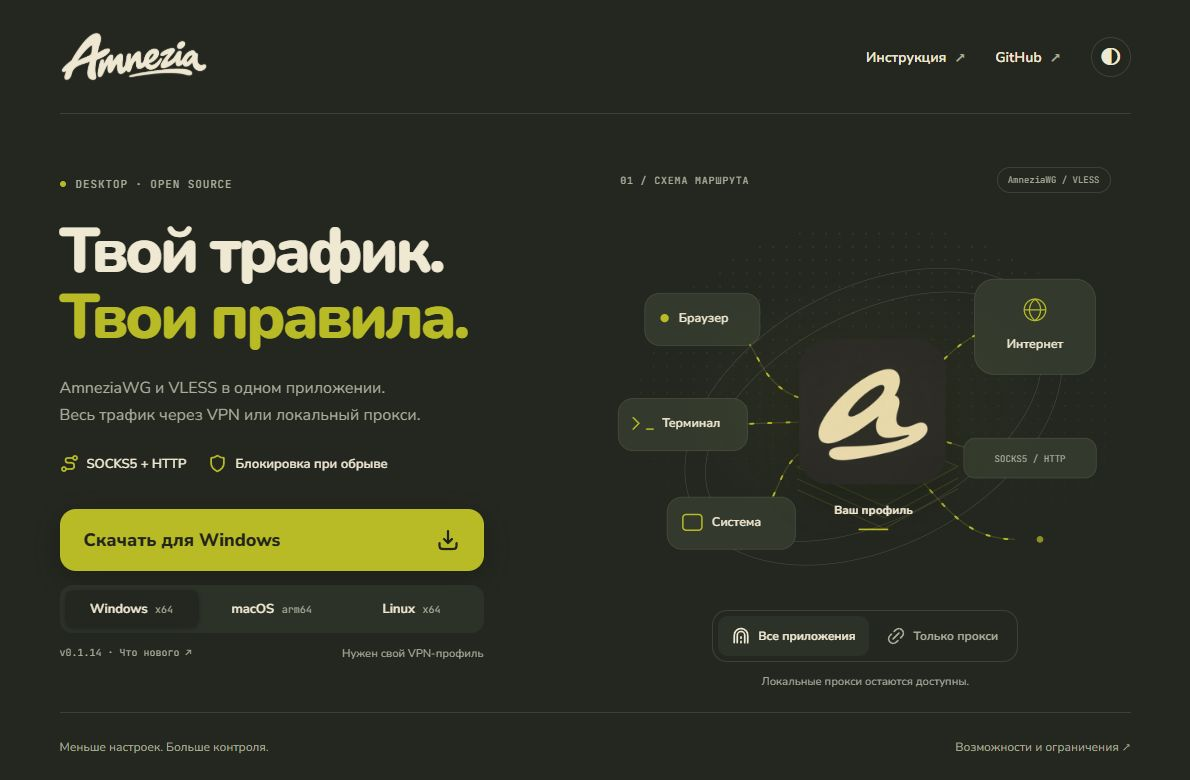
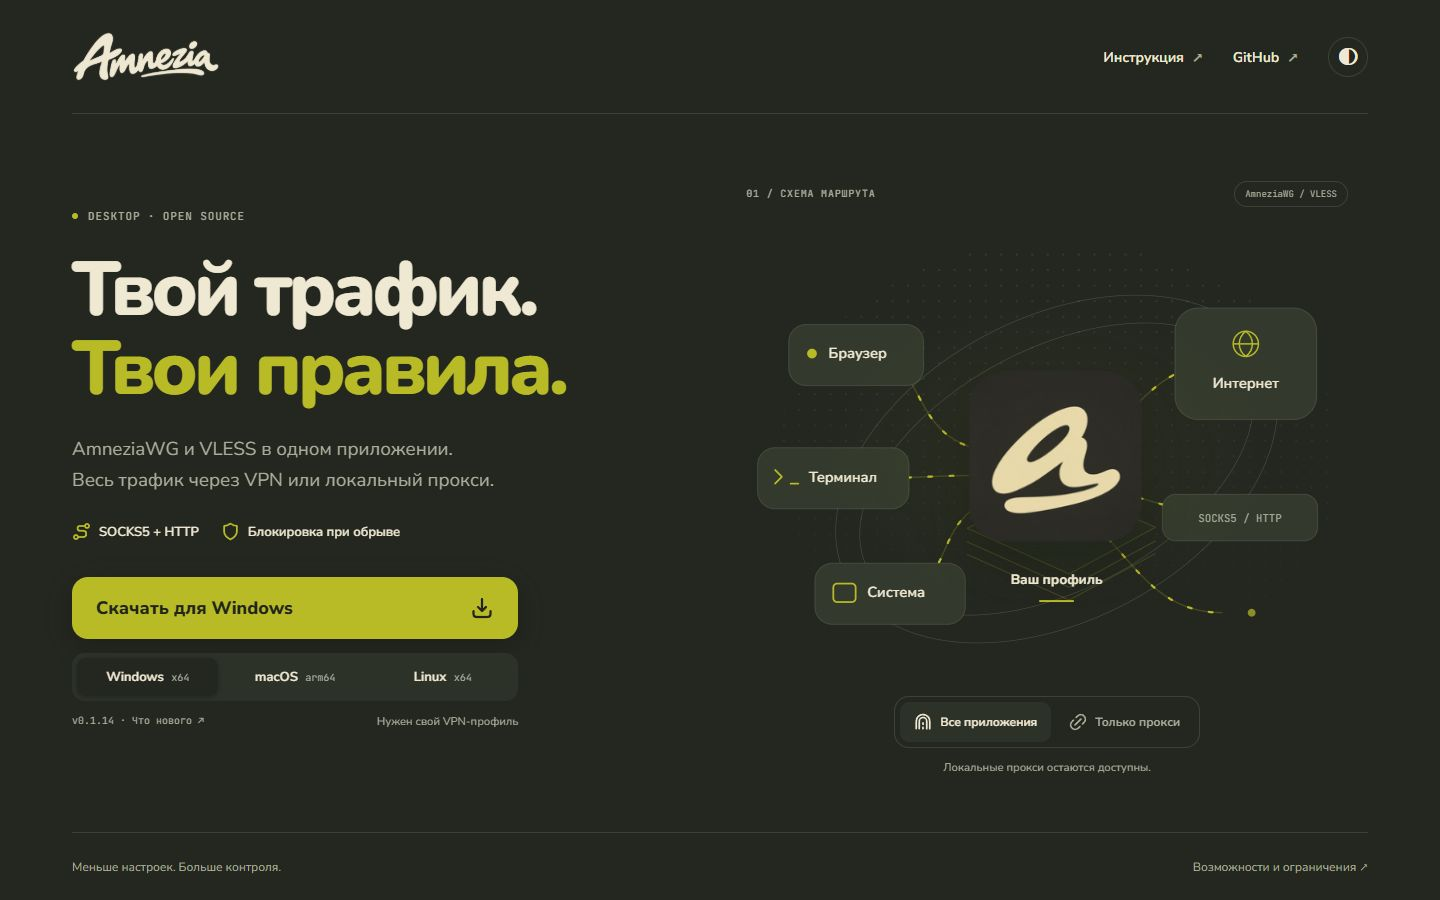
Растянуть сайт на экран и обновить снимок в README

diff --git a/site/styles.css b/site/styles.css
@@ -81,8 +81,8 @@ button {
   display: flex;
   flex-direction: column;
   min-height: 100svh;
-  max-width: 1920px;
-  margin: auto;
+  width: 100%;
+  margin: 0;
   padding: 0 5vw;
   background: var(--bg);
   overflow: hidden;
@@ -186,7 +186,7 @@ button {
 h1 {
   font-family: Nunito, sans-serif;
   font-weight: 850;
-  font-size: clamp(48px, 5.3vw, 94px);
+  font-size: clamp(48px, 5.3vw, 140px);
   line-height: 1.04;
   letter-spacing: -0.055em;
   margin: 0 0 25px;
@@ -195,11 +195,11 @@ h1 span {
   color: var(--accent);
 }
 .description {
-  font-size: clamp(16px, 1.3vw, 20px);
+  font-size: clamp(16px, 1.3vw, 26px);
   line-height: 1.65;
   margin: 0;
   color: var(--muted);
-  max-width: 440px;
+  max-width: 36em;
 }
 .features {
   display: flex;
@@ -244,7 +244,8 @@ h1 span {
   --icon: url("assets/icons/link.svg");
 }
 .download-area {
-  max-width: 424px;
+  width: 100%;
+  max-width: clamp(424px, 31vw, 680px);
 }
 .download-button {
   min-height: 62px;
@@ -584,7 +585,6 @@ h1 span {
   .page {
     height: 100svh;
     min-height: 700px;
-    max-height: 1200px;
   }
   .hero {
     padding: 28px 0;
@@ -993,5 +993,53 @@ h1 span {
   .footer {
     min-height: 44px;
     font-size: 10px;
+  }
+}
+/* На широких дисплеях весь экран участвует в композиции, без внешней рамки. */
+@media (min-width: 1500px) {
+  .eyebrow {
+    font-size: clamp(11px, 0.7vw, 16px);
+  }
+  .features {
+    font-size: clamp(13px, 0.9vw, 18px);
+    gap: 16px 28px;
+  }
+  .features .icon {
+    width: 23px;
+    height: 23px;
+  }
+  .download-button {
+    font-size: clamp(18px, 1.2vw, 26px);
+    padding: clamp(18px, 1.2vw, 26px) clamp(24px, 1.6vw, 36px);
+    border-radius: 18px;
+  }
+  .platforms button {
+    font-size: clamp(13px, 0.8vw, 18px);
+    padding-block: clamp(10px, 0.75vw, 17px);
+  }
+  .platforms button small {
+    font-size: clamp(10px, 0.6vw, 13px);
+  }
+  .download-meta {
+    font-size: clamp(11px, 0.7vw, 14px);
+  }
+  .download-meta a {
+    font-size: clamp(10px, 0.65vw, 13px);
+  }
+  .mode-buttons button {
+    font-size: clamp(12px, 0.8vw, 17px);
+    padding: 14px 18px;
+  }
+  .mode-caption {
+    font-size: clamp(11px, 0.7vw, 15px);
+  }
+  .mode-area {
+    max-width: none;
+  }
+  .visual-heading .mono {
+    font-size: clamp(10px, 0.65vw, 14px);
+  }
+  .visual-badge {
+    font-size: clamp(9px, 0.6vw, 13px);
   }
 }
